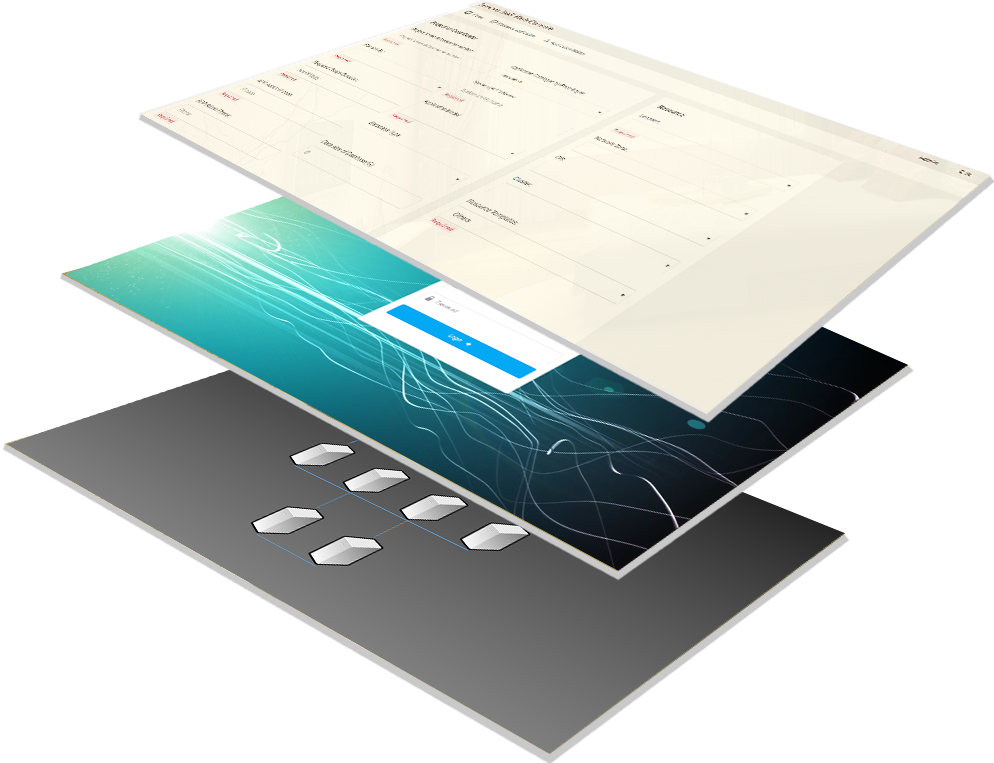
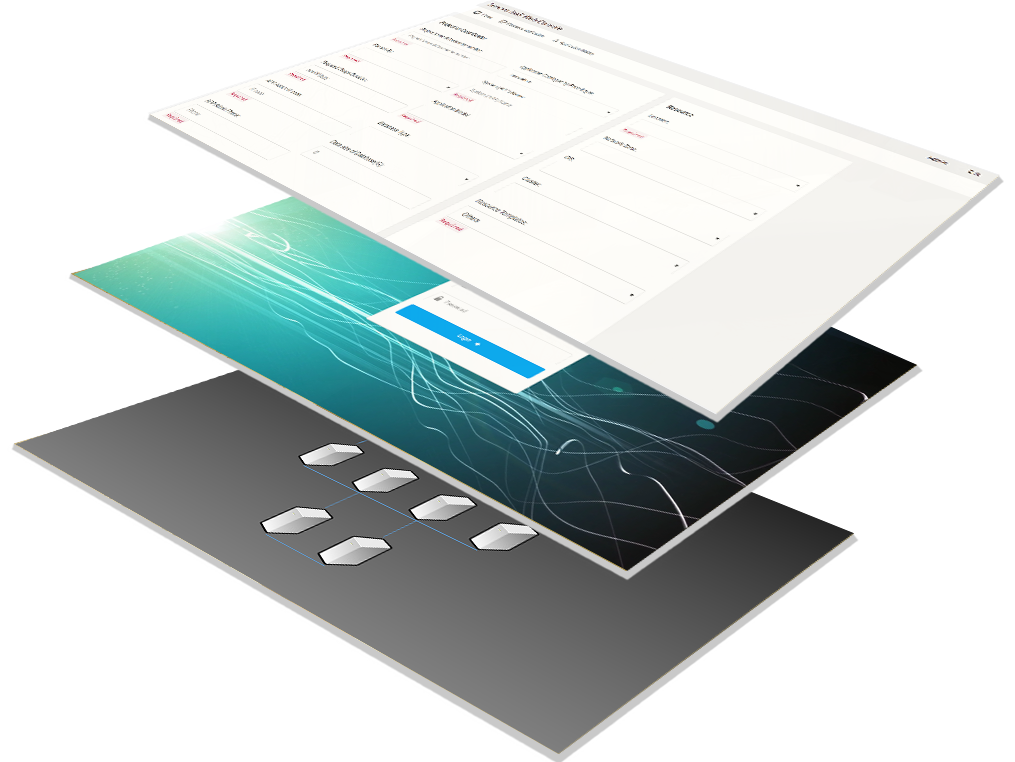
img css

diff --git a/css/main1.css b/css/main1.css
@@ -400,9 +400,9 @@ button{
 }
 .cen_right{
 	width:61%;
-	height:90%;
+	height:75%;
 	float:right;
-	margin-top:51px;
+	margin-top:100px;
 }
 /*second screen end*/
 
@@ -410,7 +410,7 @@ button{
 .th_banner{
 	width:100%;
 	height:800px;
-	background: #f7f7f7;
+	background: #fbfcfe;
 }
 /*旋转中文*/
     /* #div{
@@ -491,8 +491,7 @@ button{
        width:54%;
        height:90%;
        float: left;
-       margin-top: 20px;
-       margin-top: 30px;
+       margin-top: 145px;
        }
 .th_right{
 	width:30%;
@@ -540,14 +539,16 @@ button{
 	margin:auto;
 }
 .forth_ul .factive{
-	background: #4871a2;
+	background: #fff;
 	border-radius: 18px;
+	border:1px solid #e3e3e3;
 	box-shadow: 0 5px 9px #ccc;
 }
 .forth_ul li{
 	width:400px;
 	height:300px;
-	background: #366687;
+	background: #fff;
+	border:1px solid #e3e3e3;
 	float: left;
 	margin-left:2%;
 	position: relative;
@@ -557,7 +558,7 @@ button{
 }
 .forth_ul .ul_first{
 	font-size:23px ;
-	color:#fff;
+	color:#000;
 	text-align: center;
 	position: absolute;
 	top:20px;
@@ -579,7 +580,7 @@ button{
 	width:300px;
 	height:45px;
 	font-size: 18px;
-	color:#fff;
+	color:#000;
 	margin-top:50px;
 	text-align: center;
 	position: absolute;
@@ -1036,7 +1037,7 @@ button{
 .th_banner{
 	width:100%;
 	height:800px;
-	background: #f7f7f7;
+	background: #fbfcfe;
 	clear: both
 }
 /*旋转*/
@@ -1677,7 +1678,7 @@ button{
 .th_banner{
 	width:100%;
 	height:680px;
-	background: #f7f7f7;
+	background: #fbfcfe;
 	clear: both
 }
 /*旋转*/
@@ -2293,7 +2294,7 @@ button{
 .th_banner{
 	width:100%;
 	height:16.675rem;
-	background: #f7f7f7;
+	background: #fbfcfe;
 	clear: both;
 }
 .th_left img{
